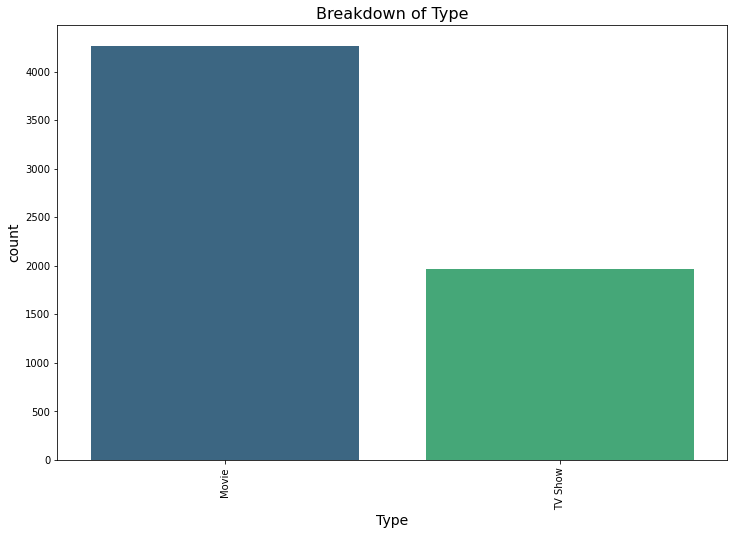
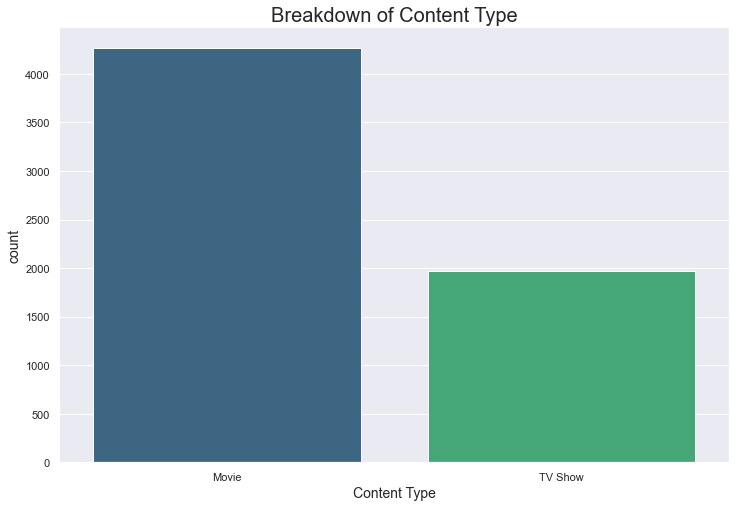
Updating Graphs

diff --git a/Netflix.py b/Netflix.py
@@ -149,7 +149,7 @@ plt.xlabel('Rating', fontsize = 14)
 
 
 plt.figure(figsize = (12, 8))
-sns.countplot(y = 'B', hue = 'A', palette = 'pastel', edgecolor = '.6', data = ratings_type)
+sns.countplot(y = 'B', hue = 'A', palette = 'pastel', data = ratings_type)
 plt.title('Breakdown of Ratings by Content Type', fontsize = 20)
 plt.xticks(rotation = 90)
 plt.ylabel('count', fontsize = 14)
@@ -168,10 +168,9 @@ df.groupby(['type']).size().sort_values(ascending=False)
 # Examines the ratings 
 plt.figure(figsize = (12, 8))
 sns.countplot(x = 'type', data = df, palette = 'viridis')
-plt.xticks(rotation = 90)
-plt.title('Breakdown of Type', fontsize = 16)
+plt.title('Breakdown of Content Type', fontsize = 20)
 plt.ylabel('count', fontsize = 14)
-plt.xlabel('Type', fontsize = 14)
+plt.xlabel('Content Type', fontsize = 14)
 plt.show()
 
 # creates a pie chart 
@@ -215,11 +214,10 @@ df.groupby(['release_year']).size().sort_values(ascending=False)
 
 # Examines the ratings 
 plt.figure(figsize = (12, 8))
-sns.countplot(x = 'release_year', data = df, palette = 'magma', order = df['release_year'].value_counts().head(25).index)
-plt.xticks(rotation = 90)
+sns.countplot(y = 'release_year', data = df, palette = 'magma', order = df['release_year'].value_counts().head(25).index)
 plt.title('How much fresh content does Netflix have?', fontsize = 16)
-plt.ylabel('count', fontsize = 14)
-plt.xlabel('Release Year', fontsize = 14)
+plt.ylabel('Release Year', fontsize = 14)
+plt.xlabel('count', fontsize = 14)
 plt.show()
 
 
@@ -233,12 +231,15 @@ df['new_or_old'].value_counts()
 # create a table for the view
 df.groupby(['new_or_old']).size().sort_values(ascending=False)
 
+df.info()
+df['new_or_old'] = df['new_or_old'].fillna(-1)
+
+df['new_or_old'] = df['new_or_old'].astype(int)
 
 # Examines the ratings 
 plt.figure(figsize = (12, 8))
-sns.countplot(x = 'new_or_old', data = df, palette = 'magma', order = df['new_or_old'].value_counts().head(20).index)
-plt.xticks(rotation = 90)
-plt.title('How long does it take Netflix to add content to its website?', fontsize = 16)
+sns.countplot(y = 'new_or_old', data = df, palette = 'magma', order = df['new_or_old'].value_counts().head(20).index)
+plt.title('How long does it take Netflix to add content to its website?', fontsize = 20)
 plt.ylabel('count', fontsize = 14)
 plt.xlabel('Difference in Years', fontsize = 14)
 plt.show()
@@ -273,9 +274,8 @@ if movie['duration'] == 12:
 # =============================================================================
 # examining TV show seasons
 plt.figure(figsize = (12, 8))
-sns.countplot(x = 'duration', data = df, palette = 'viridis', order = tv_show['duration'].value_counts().head(25).index)
-plt.xticks(rotation = 90)
-plt.title('How many Seasons do most TV Shows have?', fontsize = 16)
+sns.countplot(y = 'duration', data = df, palette = 'viridis', order = tv_show['duration'].value_counts().head(25).index)
+plt.title('How many Seasons do most TV Shows have?', fontsize = 20)
 plt.ylabel('count', fontsize = 14)
 plt.xlabel('Seasons', fontsize = 14)
 plt.show()
